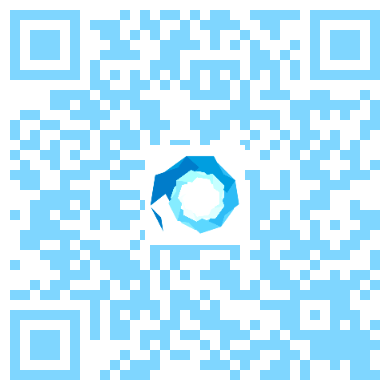
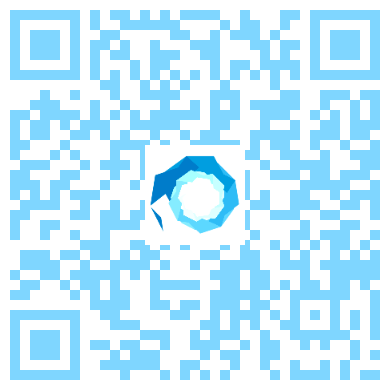
1

diff --git a/templates/create_form.html b/templates/create_form.html
@@ -33,12 +33,24 @@
             </div>
             <fieldset id="human">
                 <div class="origin-from">
-                    <label for="body">body</label>
-                    <input type="button" value="+" onclick="btnclick('body_c')">
-                    <input type="text" id="body" name="body">
-                </div>
-                <div class="comments-form">
-                    <input type="text" id="body_c" name="body_c" placeholder="comment">
+                    <div class="body">
+                        <label for="body">body</label>
+                        <input type="button" value="+" onclick="btnclick('body_c')">
+                        <input type="text" id="body" name="body">
+                        <input type="text" id="body_c" name="body_c" placeholder="comment">
+                    </div>
+                    <div class="pants">
+                        <label for="body">pants</label>
+                        <input type="button" value="+" onclick="btnclick('pants_c')">
+                        <input type="text" id="pants" name="pants">
+                        <input type="text" id="pants_c" name="pants_c" placeholder="comment">
+                    </div>
+                    <div class="shoes">
+                        <label for="body">shoes</label>
+                        <input type="button" value="+" onclick="btnclick('shoes_c')">
+                        <input type="text" id="shoes" name="shoes">
+                        <input type="text" id="shoes_c" name="shoes_c" placeholder="comment">
+                    </div>
                 </div>
             </fieldset>
             <div class="buttons">
@@ -49,6 +61,8 @@
     </main>
     <script>
         document.getElementById('body_c').style.visibility = 'hidden';
+        document.getElementById('pants_c').style.visibility = 'hidden';
+        document.getElementById('shoes_c').style.visibility = 'hidden';
 
         function btnclick(name){
             const elem = document.getElementById(name);
@@ -81,21 +95,21 @@
     	    y = clickY - positionY ;
             //console.log('x:'+x+'y:'+y);
 
-            if((200 <= x && x < 275)&&(66 <= y && y < 141)){
-                document.getElementById('target').src = "{{ url_for('static', filename='02_hairaccessory.png')}}";
-                //02_hairaccessory
-                document.getElementById('target-link').href = '#hairaccessory';
-            }
-            else if((123 <= x && x < 336) && (170 <= y && y < 300)){
+            // if((200 <= x && x < 275)&&(66 <= y && y < 141)){
+            //     document.getElementById('target').src = "{{ url_for('static', filename='02_hairaccessory.png')}}";
+            //     //02_hairaccessory
+            //     document.getElementById('target-link').href = '#hairaccessory';
+            // }
+            if((123 <= x && x < 336) && (170 <= y && y < 300)){
                 document.getElementById('target').src = "{{ url_for('static', filename='03_tops.png')}}";
                 //03_tops
                 document.getElementById('target-link').href = '#body';
             }
-            else if(((65 <= x && x < 122)&&(304 <= y && y <  321) || (342 <= x && x < 384)&&(301 <= y && y < 319))){
-                document.getElementById('target').src = "{{ url_for('static', filename='04_bag.png')}}";
-                //04_bag
-                document.getElementById('target-link').href = '#bag';
-            }
+            // else if(((65 <= x && x < 122)&&(304 <= y && y <  321) || (342 <= x && x < 384)&&(301 <= y && y < 319))){
+            //     document.getElementById('target').src = "{{ url_for('static', filename='04_bag.png')}}";
+            //     //04_bag
+            //     document.getElementById('target-link').href = '#bag';
+            // }
             else if((174 <= x && x < 267)&&(321 <= y && y < 511)){
                 document.getElementById('target').src = "{{ url_for('static', filename='05_bottoms.png')}}";
                 //05_bottoms

diff --git a/templates/qr_page.html b/templates/qr_page.html
@@ -32,15 +32,18 @@
     <div class="form-none">
         <input type="text" id="title" value="{{ result[1] }}">
         <input type="text" id="comment" value="{{ result[3] }}">
+        <input type="text" id='id' value="{{ result[0] }}" >
     </div>
+    
     <script>
         window.onload = function () {
-            var url = location.href;
+            var url = document.getElementById("id").value;
+            url = 'http://127.0.0.1:5000/'+url
             var title = document.getElementById("title").value;
             var comment = document.getElementById("comment").value;
-            var twitter = document.getElementById("tw-btn").value;
-            var fb = document.getElementById("fb-btn").value;
-            var line = document.getElementById("li-btn").value;
+            var twitter = document.getElementById("tw-btn");
+            var fb = document.getElementById("fb-btn");
+            var line = document.getElementById("li-btn");
             
             twitter.href = "https://twitter.com/share?text="+title+"&url="+url;
             fb.href = "http://www.facebook.com/share.php?u="+url;

diff --git a/templates/coordinate_page.html b/templates/coordinate_page.html
@@ -18,6 +18,23 @@
         </nav>
     </div>
     <main>
+        <ul>
+        {% for i in range(2,10) %}
+            {% if i != '' %}
+                {% if i == 2 %}
+                {% endif %}
+                {% if i == 4 %}
+                {% endif %}
+                {% if i == 6 %}
+                {% endif %}
+                <li>{{ result[i] }}</li>
+                {% if i == 9 %}
+                <span>Views</span>
+                {% endif %}
+            {% endif %}
+        {% endfor %}
+        </ul>
+
         <h1 class="title">{{ result[1] }}</h1>
         <h2 class="body">{{ result[2] }}</h2>
         <p class="body_c">{{ result[3] }}</p>

diff --git a/main_2.py b/main_2.py
@@ -70,6 +70,10 @@ def create_result():
     title = request.form.get("title",None)
     body = request.form.get("body",None)
     body_c = request.form.get("body_c",None)
+    pants = request.form.get("pants",None)
+    pants_c = request.form.get("pants_c",None)
+    shoes = request.form.get("shoes",None)
+    shoes_c = request.form.get("shoes_c",None)
 
     # Insert実行
     def table_insert(title = "",body = "",body_c = "",pants = "",pants_c = "",shoes = "",shoes_c = "",date=dt_now,view_times = "0"):
@@ -82,7 +86,7 @@ def create_result():
 
     # 現在時刻を変数に格納
     date = dt_now
-    table_insert(title=title,body=body,body_c=body_c,date=date)
+    table_insert(title=title,body=body,body_c=body_c,pants=pants,pants_c=pants_c,shoes=shoes,shoes_c=shoes_c,date=date)
 
     for row in c.execute(f'SELECT * FROM articles WHERE title = "{title}" and date = "{date}"'):
         url = row[0]
@@ -120,7 +124,6 @@ def coordinate_page(id):
     # コネクションをクローズ
     conn.close()
     return render_template('coordinate_page.html',
-                            title = result,
                             result = result)
 
 @app.route('/qr', methods=["POST"])
@@ -140,7 +143,7 @@ def id_qr():
     qr_path = "./static/qr_img.png"
     font_path = "./static/meiryo.ttc"
     icon_path = "./static/resize-icon.png"
-    url_path = 'https://google.co.jp/'
+    url_path = f'http://127.0.0.1:5000/{id}'
 
     def generate_qrcode():
         icon = Image.open(icon_path)
@@ -190,6 +193,8 @@ def id_qr():
         
         if len(comment) >= 10:
             comment = f'{comment[:10]}\n{comment[10:]}'
+            if len(comment) >= 20:
+                comment = f'{comment[:20]}\n{comment[20:]}'
         text = comment
         font_size = 50
         font_color = (255, 255, 255)
